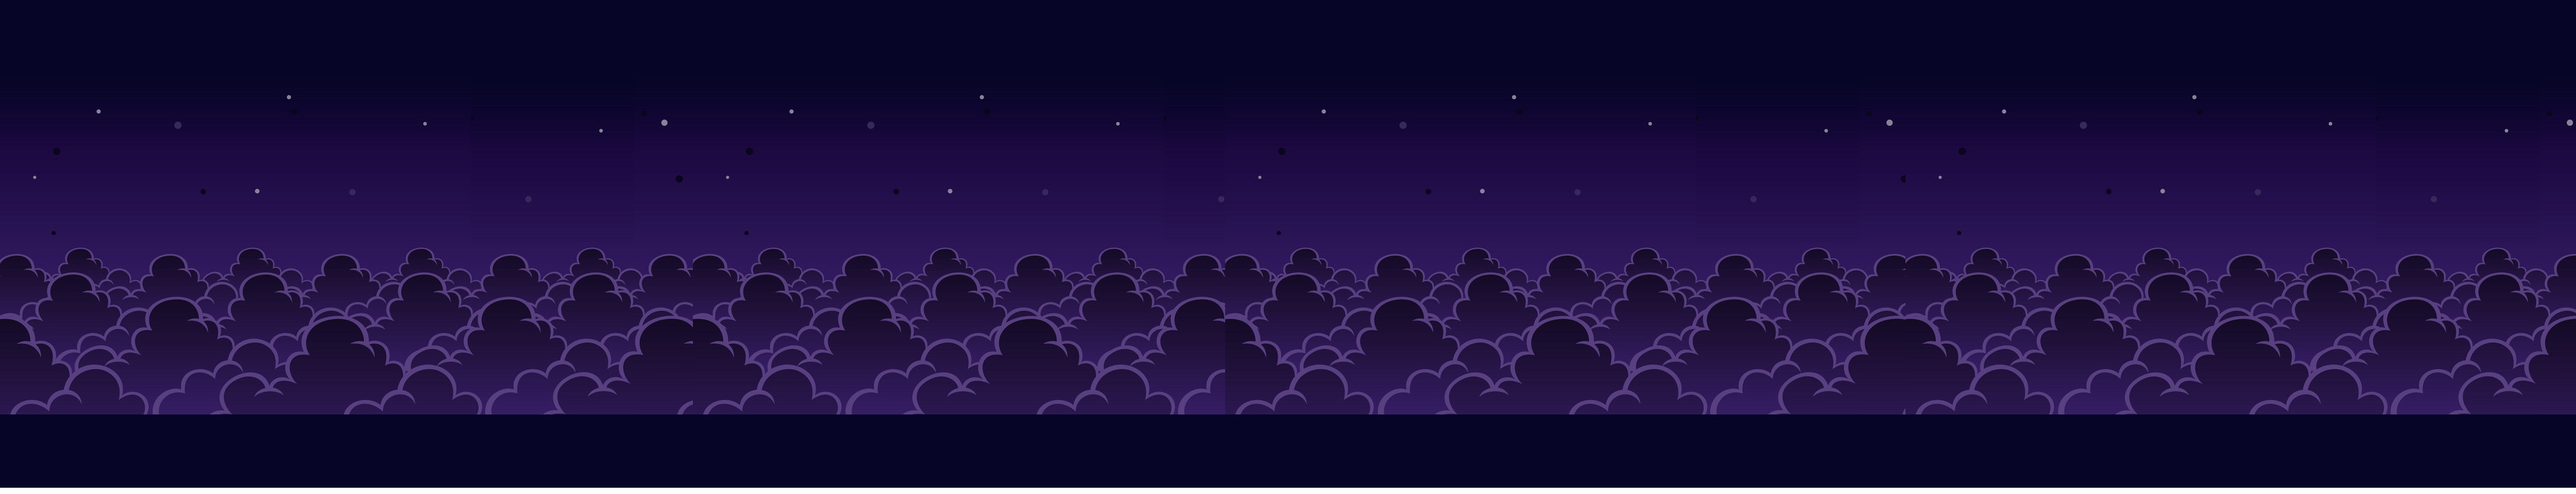
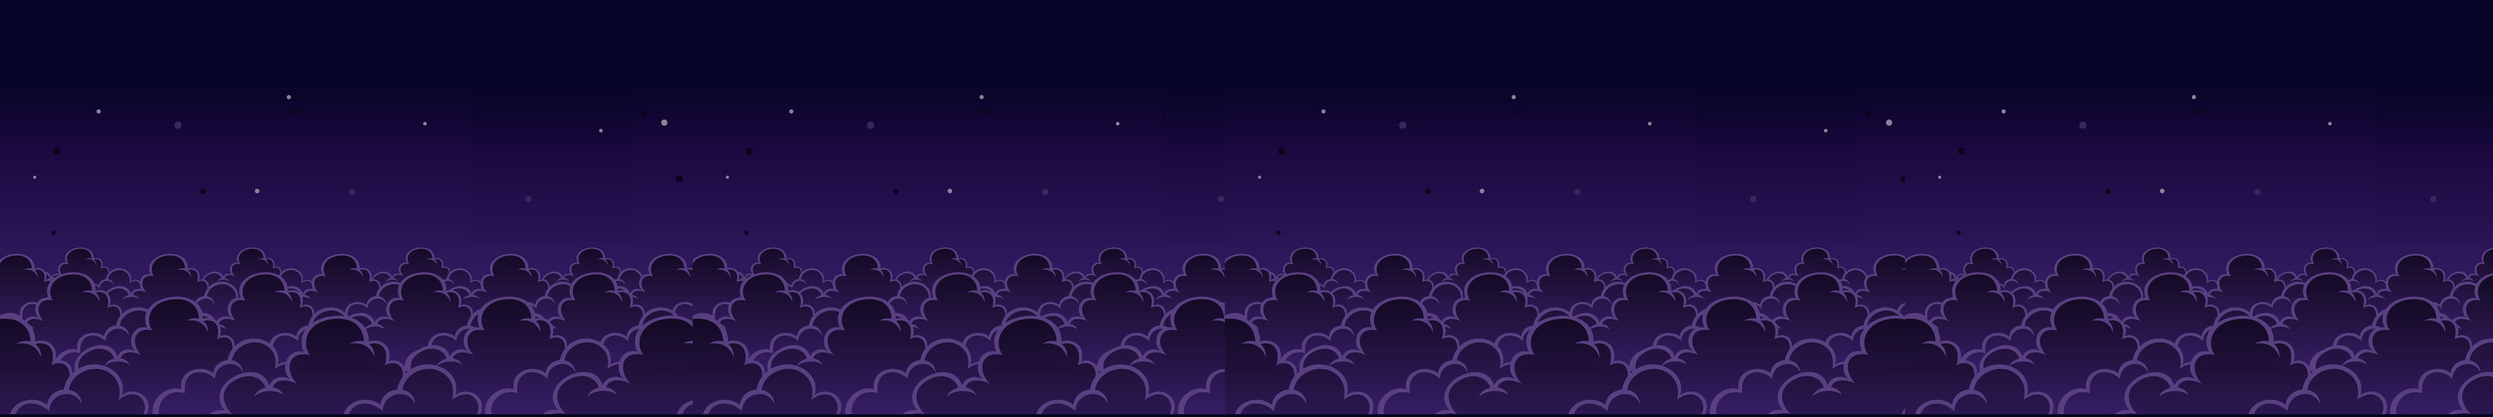
v17

diff --git a/js/sceneMain.js b/js/sceneMain.js
@@ -23,7 +23,7 @@ class SceneMain extends Phaser.Scene {
         let bg = this.add.image(0,0,"background");
         bg.displayHeight = this.sys.game.config.height;
         bg.displayWidth = this.sys.game.config.width*6;
-        bg.y= game.config.height/1.8;
+        bg.y= game.config.height/2;
         bg.x= game.config.width*3;
 
         //add assets
@@ -35,7 +35,7 @@ class SceneMain extends Phaser.Scene {
         //set grid lines to locate positions
         this.blockGrid =new AlignGrid({
             scene:this,
-            rows:55,
+            rows:44,
             cols:110,
             height:bg.displayHeight,
             width:bg.displayWidth
